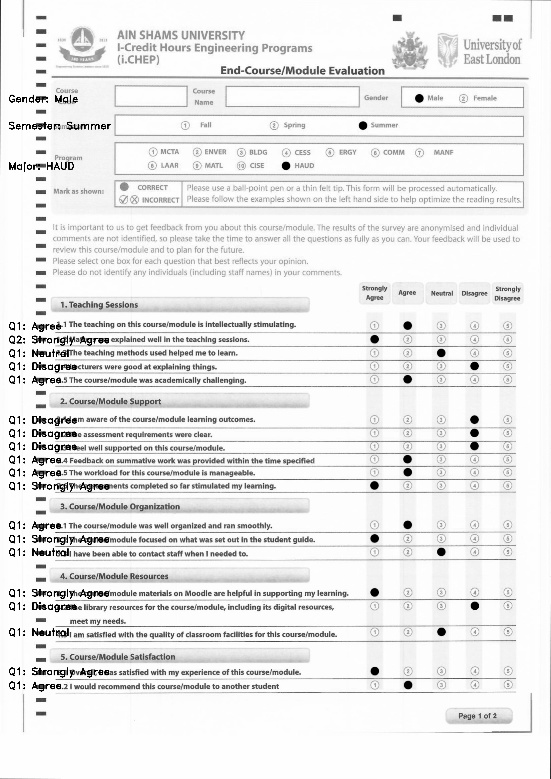
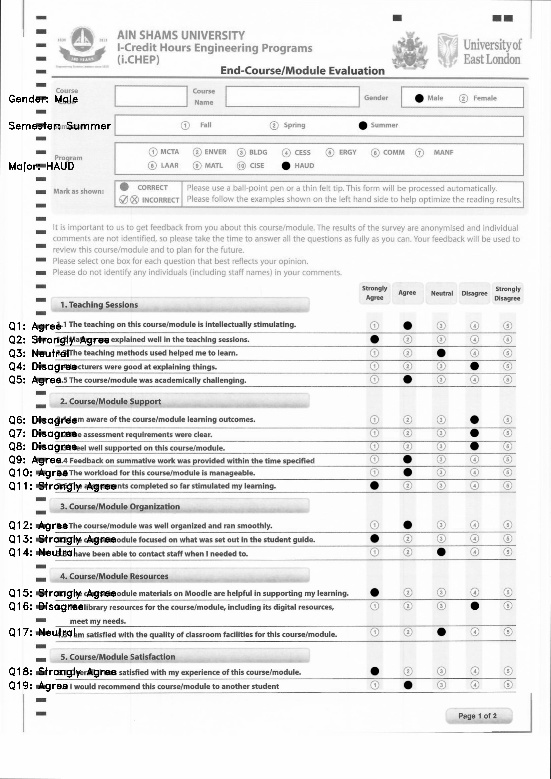
add file for guessbooks and add comments and add txt file output

diff --git a/code/project.py b/code/project.py
@@ -1,54 +1,9 @@
 import math
 import numpy as np
 import cv2
-ans = ["male",
-"summer",
-"manf",
-"neutral",
-"strongly agree",
-"neutral",
-"strongly agree",
-"agree",
-"disagree",
-"disagree",
-"disagree",
-"agree",
-"agree",
-"strongly agree",
-"neutral",
-"strongly agree",
-"agree",
-"strongly agree",
-"disagree",
-"strongly agree",
-"neutral",
-"agree"]
+from CONST import ans, analyzer
 
-analyzer = {240 : ("Gender", {1200 : "Male", 1270 : "Female"} ),
-323 : ("Semester", {966 : "Summer", 433 : "Fall", 700 : "Spring" } ),
-404 : ("Major", {867 : "ERGY", 1136 : "MANF", 1000 : "COMM", 733 : "CESS", 600 : "BLDG", 466 : "ENVR", 332 : "MCTA" } ),
-444	: ("Major", { 733 : "HAUD", 600 : "CISE", 466 : "MATL", 332 : "LAAR" } ),
-913 : ("Q1", {1000 : "Strongly Agree", 1100: "Agree", 1200 : "Neutral", 1300 : "Disagree", 1400 : "Strongly Disagree"} ),
-965 : ("Q2", {1000 : "Strongly Agree", 1100: "Agree", 1200 : "Neutral", 1300 : "Disagree", 1400 : "Strongly Disagree"} ),
-1003 : ("Q1", {1000 : "Strongly Agree", 1100: "Agree", 1200 : "Neutral", 1300 : "Disagree", 1400 : "Strongly Disagree"} ),
-1044 : ("Q1", {1000 : "Strongly Agree", 1100: "Agree", 1200 : "Neutral", 1300 : "Disagree", 1400 : "Strongly Disagree"} ),
-1084 : ("Q1", {1000 : "Strongly Agree", 1100: "Agree", 1200 : "Neutral", 1300 : "Disagree", 1400 : "Strongly Disagree"} ),
-1084 : ("Q1", {1000 : "Strongly Agree", 1100: "Agree", 1200 : "Neutral", 1300 : "Disagree", 1400 : "Strongly Disagree"} ),
-1205 : ("Q1", {1000 : "Strongly Agree", 1100: "Agree", 1200 : "Neutral", 1300 : "Disagree", 1400 : "Strongly Disagree"} ),
-1245 : ("Q1", {1000 : "Strongly Agree", 1100: "Agree", 1200 : "Neutral", 1300 : "Disagree", 1400 : "Strongly Disagree"} ),
-1284 : ("Q1", {1000 : "Strongly Agree", 1100: "Agree", 1200 : "Neutral", 1300 : "Disagree", 1400 : "Strongly Disagree"} ),
-1324 : ("Q1", {1000 : "Strongly Agree", 1100: "Agree", 1200 : "Neutral", 1300 : "Disagree", 1400 : "Strongly Disagree"} ),
-1361 : ("Q1", {1000 : "Strongly Agree", 1100: "Agree", 1200 : "Neutral", 1300 : "Disagree", 1400 : "Strongly Disagree"} ),
-1403 : ("Q1", {1000 : "Strongly Agree", 1100: "Agree", 1200 : "Neutral", 1300 : "Disagree", 1400 : "Strongly Disagree"} ),
-1521 : ("Q1", {1000 : "Strongly Agree", 1100: "Agree", 1200 : "Neutral", 1300 : "Disagree", 1400 : "Strongly Disagree"} ),
-1562 : ("Q1", {1000 : "Strongly Agree", 1100: "Agree", 1200 : "Neutral", 1300 : "Disagree", 1400 : "Strongly Disagree"} ),
-1602 : ("Q1", {1000 : "Strongly Agree", 1100: "Agree", 1200 : "Neutral", 1300 : "Disagree", 1400 : "Strongly Disagree"} ),
-1723 : ("Q1", {1000 : "Strongly Agree", 1100: "Agree", 1200 : "Neutral", 1300 : "Disagree", 1400 : "Strongly Disagree"} ),
-1764 : ("Q1", {1000 : "Strongly Agree", 1100: "Agree", 1200 : "Neutral", 1300 : "Disagree", 1400 : "Strongly Disagree"} ),
-1842 : ("Q1", {1000 : "Strongly Agree", 1100: "Agree", 1200 : "Neutral", 1300 : "Disagree", 1400 : "Strongly Disagree"} ),
-1960 : ("Q1", {1000 : "Strongly Agree", 1100: "Agree", 1200 : "Neutral", 1300 : "Disagree", 1400 : "Strongly Disagree"} ),
-2001 : ("Q1", {1000 : "Strongly Agree", 1100: "Agree", 1200 : "Neutral", 1300 : "Disagree", 1400 : "Strongly Disagree"} )}
-
+# given an angle and an image, this function will return a the image rotated by this angle
 def rotateImage(image, angle): # source: https://stackoverflow.com/questions/9041681/opencv-python-rotate-image-by-x-degrees-around-specific-point
     # rotation is clockwise
     image_center = tuple(np.array(image.shape[1::-1]) / 2)
@@ -56,13 +11,6 @@ def rotateImage(image, angle): # source: https://stackoverflow.com/questions/904
     result = cv2.warpAffine(image, rot_mat, image.shape[1::-1], flags=cv2.INTER_LINEAR)
     return result
 
-def getRotationAngle(point, angle):
-    x1 = point[0]
-    y1 = point[1]
-    x2 = x1 * math.cos(math.radians(angle)) - x1 * math.sin(math.radians(angle))
-    if x2 > 500:
-        return angle + 180
-    return angle
 
 #return 2 images one with only circles and one with only squares
 def seperateSquaresAndCircles(img):
@@ -80,6 +28,10 @@ def seperateSquaresAndCircles(img):
     squares = cv2.erode(squares,mask)
     squares = cv2.dilate(squares,mask2)
     return circles,squares
+
+# returns 2 lists one with the top 3 horizontal squares and one with 
+# the multiple vertical squares
+# separation assumes that top right squares are larger in size
 def seperateSquares(squares):
     cc = cv2.connectedComponentsWithStats(squares)
     vert = []
@@ -91,6 +43,8 @@ def seperateSquares(squares):
             else:
                 horiz.append(cc[3][i])
     return horiz, vert
+
+# returns a list with the centroids of the circles(choices)
 def getCirclesCentroids(circles):
     # I added the opening because some very short white line was missing up my components
     mask = cv2.getStructuringElement(cv2.MORPH_ELLIPSE,(3,3)) 
@@ -100,20 +54,14 @@ def getCirclesCentroids(circles):
     cc = cv2.connectedComponentsWithStats(circles)
     centers = []
     for i,c in enumerate(cc[2]):
-        # TODO make this part prone to scale
+        # TODO make this part prune to scale
         if (c[cv2.CC_STAT_AREA] > 100 and c[cv2.CC_STAT_AREA] < 10000)\
                 and (c[cv2.CC_STAT_LEFT] > 200 and c[cv2.CC_STAT_LEFT] < 1600)\
                 and (c[cv2.CC_STAT_TOP] > 150 and c[cv2.CC_STAT_TOP] < 2200): 
             centers.append(tuple(cc[3][i]))
     return centers
-def markSquares(img, vert, horiz):
-    squares = img.copy()
-    for i in vert:
-        squares = cv2.circle(squares,tuple(map(int,i)),9,255)
-    for i in horiz:
-        squares = cv2.circle(squares,tuple(map(int,i)),20,255)
-    return squares
 
+# this function calculates rotation angle and decided what is the best rotation angle to fix this rotations
 def fixRotation(vert):
     angle =(math.degrees(math.atan((vert[0][1] - vert[-1][1]) / (vert[0][0] - vert[-1][0]))))# angle with the horiz axis
     if angle < 0 : angle = 270 - angle
@@ -125,6 +73,7 @@ def fixRotation(vert):
         angle += 180
     return -angle
 
+# compare with all choices and chooses the closest choice from a list of guesses
 def getBestGuess(val, guessbook):
     min = 1000
     best = 0
@@ -134,12 +83,15 @@ def getBestGuess(val, guessbook):
             best = i
     return guessbook[best]
 
-def getAnswer(cc): # this function takes the centers after adjusting according to the reference
+# given the center of a choice thi function returns a string with question title and its answer
+def getAnswer(cc): 
     x = cc[0]
     y = cc[1]
-    stop = False
+    # guess the question
     i = getBestGuess(y,analyzer)
+    # i[0] is the question title, i[1] is list of possible answers
     st = i[0]
+    # guess the answer
     i = getBestGuess(x,i[1])
     st += ": " + i
     return st
@@ -147,31 +99,52 @@ def getAnswer(cc): # this function takes the centers after adjusting according t
 
 if __name__ == "__main__":
     for num in range(1, 120):
+        # assuming all file names are test_sample#.jpg
         name = "samples/test_sample" + str(num) + ".jpg"
         outname = "samples/test_sample" + str(num) + "_out.jpg"
+
+        # opening the text file
+        txtfilename = "samples/test_sample" + str(num) + "_out.txt"
+        txtfile = open(txtfilename, "w")
+
+        # if we reach the end of the files break
         img = cv2.imread(name,0)
         if img is None : break
-        circles, squares = seperateSquaresAndCircles(img) 
+
+        # get an image with the squares seperated from and another with the small black squares
+        circles, squares = seperateSquaresAndCircles(img)
+        # seperate the 3 horizontal squares from the rest of the vertical square
         horiz, vert = seperateSquares(squares)
+        # from the vertical squares try to guess the correct rotation angle to straighten out the image
         angle = fixRotation(vert)
 
+        # rotate the original image by the correctly guessed image
         img = rotateImage(img,angle)
+
+        # separate circles and squares again and separate horizontal and vertical squares
         circles, squares = seperateSquaresAndCircles(img)
-        # cv2.imwrite("tmp1.jpg",circles)
-        # cv2.imwrite("tmp2.jpg",squares)
-        # exit()
-        cc = getCirclesCentroids(circles)
         horiz, vert = seperateSquares(squares)
+        # get a list of centroids of each circle(choice)
+        cc = getCirclesCentroids(circles)
+
+        # take any the squares as references for unwanted translations in the horizontal and vertical directions
         yref = horiz[0][1]
         xref = vert[0][0]
+
+        # save the relative position of each circle
         locs = []
         for i,c in enumerate(cc):
             pos = c[0] - xref, c[1] - yref
             locs.append(pos)
+        
+        # for each relative position try to guess the question from Y-component of the circle and the answer from the 
+        # X-component of the circle
         result = []
         for c in locs:
             text = getAnswer(c)
+            txtfile.write(text + "\n")
             img = cv2.putText(img,text,(25,int(c[1]) + 65),cv2.FONT_HERSHEY_DUPLEX,1,0,thickness=2)
+        txtfile.close()
         scale = 3
         img = cv2.resize(img,(img.shape[1] // scale,img.shape[0] // scale))
         cv2.imwrite(outname,img)

diff --git a/code/CONST.py b/code/CONST.py
@@ -1,0 +1,46 @@
+ans = ["male",
+"summer",
+"manf",
+"neutral",
+"strongly agree",
+"neutral",
+"strongly agree",
+"agree",
+"disagree",
+"disagree",
+"disagree",
+"agree",
+"agree",
+"strongly agree",
+"neutral",
+"strongly agree",
+"agree",
+"strongly agree",
+"disagree",
+"strongly agree",
+"neutral",
+"agree"]
+
+analyzer = {240 : ("Gender", {1200 : "Male", 1270 : "Female"} ),
+323 : ("Semester", {966 : "Summer", 433 : "Fall", 700 : "Spring" } ),
+404 : ("Major", {867 : "ERGY", 1136 : "MANF", 1000 : "COMM", 733 : "CESS", 600 : "BLDG", 466 : "ENVR", 332 : "MCTA" } ),
+444	: ("Major", { 733 : "HAUD", 600 : "CISE", 466 : "MATL", 332 : "LAAR" } ),
+913 : ("Q1", {1000 : "Strongly Agree", 1100: "Agree", 1200 : "Neutral", 1300 : "Disagree", 1400 : "Strongly Disagree"} ),
+965 : ("Q2", {1000 : "Strongly Agree", 1100: "Agree", 1200 : "Neutral", 1300 : "Disagree", 1400 : "Strongly Disagree"} ),
+1003 : ("Q3", {1000 : "Strongly Agree", 1100: "Agree", 1200 : "Neutral", 1300 : "Disagree", 1400 : "Strongly Disagree"} ),
+1044 : ("Q4", {1000 : "Strongly Agree", 1100: "Agree", 1200 : "Neutral", 1300 : "Disagree", 1400 : "Strongly Disagree"} ),
+1084 : ("Q5", {1000 : "Strongly Agree", 1100: "Agree", 1200 : "Neutral", 1300 : "Disagree", 1400 : "Strongly Disagree"} ),
+1205 : ("Q6", {1000 : "Strongly Agree", 1100: "Agree", 1200 : "Neutral", 1300 : "Disagree", 1400 : "Strongly Disagree"} ),
+1245 : ("Q7", {1000 : "Strongly Agree", 1100: "Agree", 1200 : "Neutral", 1300 : "Disagree", 1400 : "Strongly Disagree"} ),
+1284 : ("Q8", {1000 : "Strongly Agree", 1100: "Agree", 1200 : "Neutral", 1300 : "Disagree", 1400 : "Strongly Disagree"} ),
+1324 : ("Q9", {1000 : "Strongly Agree", 1100: "Agree", 1200 : "Neutral", 1300 : "Disagree", 1400 : "Strongly Disagree"} ),
+1361 : ("Q10", {1000 : "Strongly Agree", 1100: "Agree", 1200 : "Neutral", 1300 : "Disagree", 1400 : "Strongly Disagree"} ),
+1403 : ("Q11", {1000 : "Strongly Agree", 1100: "Agree", 1200 : "Neutral", 1300 : "Disagree", 1400 : "Strongly Disagree"} ),
+1521 : ("Q12", {1000 : "Strongly Agree", 1100: "Agree", 1200 : "Neutral", 1300 : "Disagree", 1400 : "Strongly Disagree"} ),
+1562 : ("Q13", {1000 : "Strongly Agree", 1100: "Agree", 1200 : "Neutral", 1300 : "Disagree", 1400 : "Strongly Disagree"} ),
+1602 : ("Q14", {1000 : "Strongly Agree", 1100: "Agree", 1200 : "Neutral", 1300 : "Disagree", 1400 : "Strongly Disagree"} ),
+1723 : ("Q15", {1000 : "Strongly Agree", 1100: "Agree", 1200 : "Neutral", 1300 : "Disagree", 1400 : "Strongly Disagree"} ),
+1764 : ("Q16", {1000 : "Strongly Agree", 1100: "Agree", 1200 : "Neutral", 1300 : "Disagree", 1400 : "Strongly Disagree"} ),
+1842 : ("Q17", {1000 : "Strongly Agree", 1100: "Agree", 1200 : "Neutral", 1300 : "Disagree", 1400 : "Strongly Disagree"} ),
+1960 : ("Q18", {1000 : "Strongly Agree", 1100: "Agree", 1200 : "Neutral", 1300 : "Disagree", 1400 : "Strongly Disagree"} ),
+2001 : ("Q19", {1000 : "Strongly Agree", 1100: "Agree", 1200 : "Neutral", 1300 : "Disagree", 1400 : "Strongly Disagree"} )}
